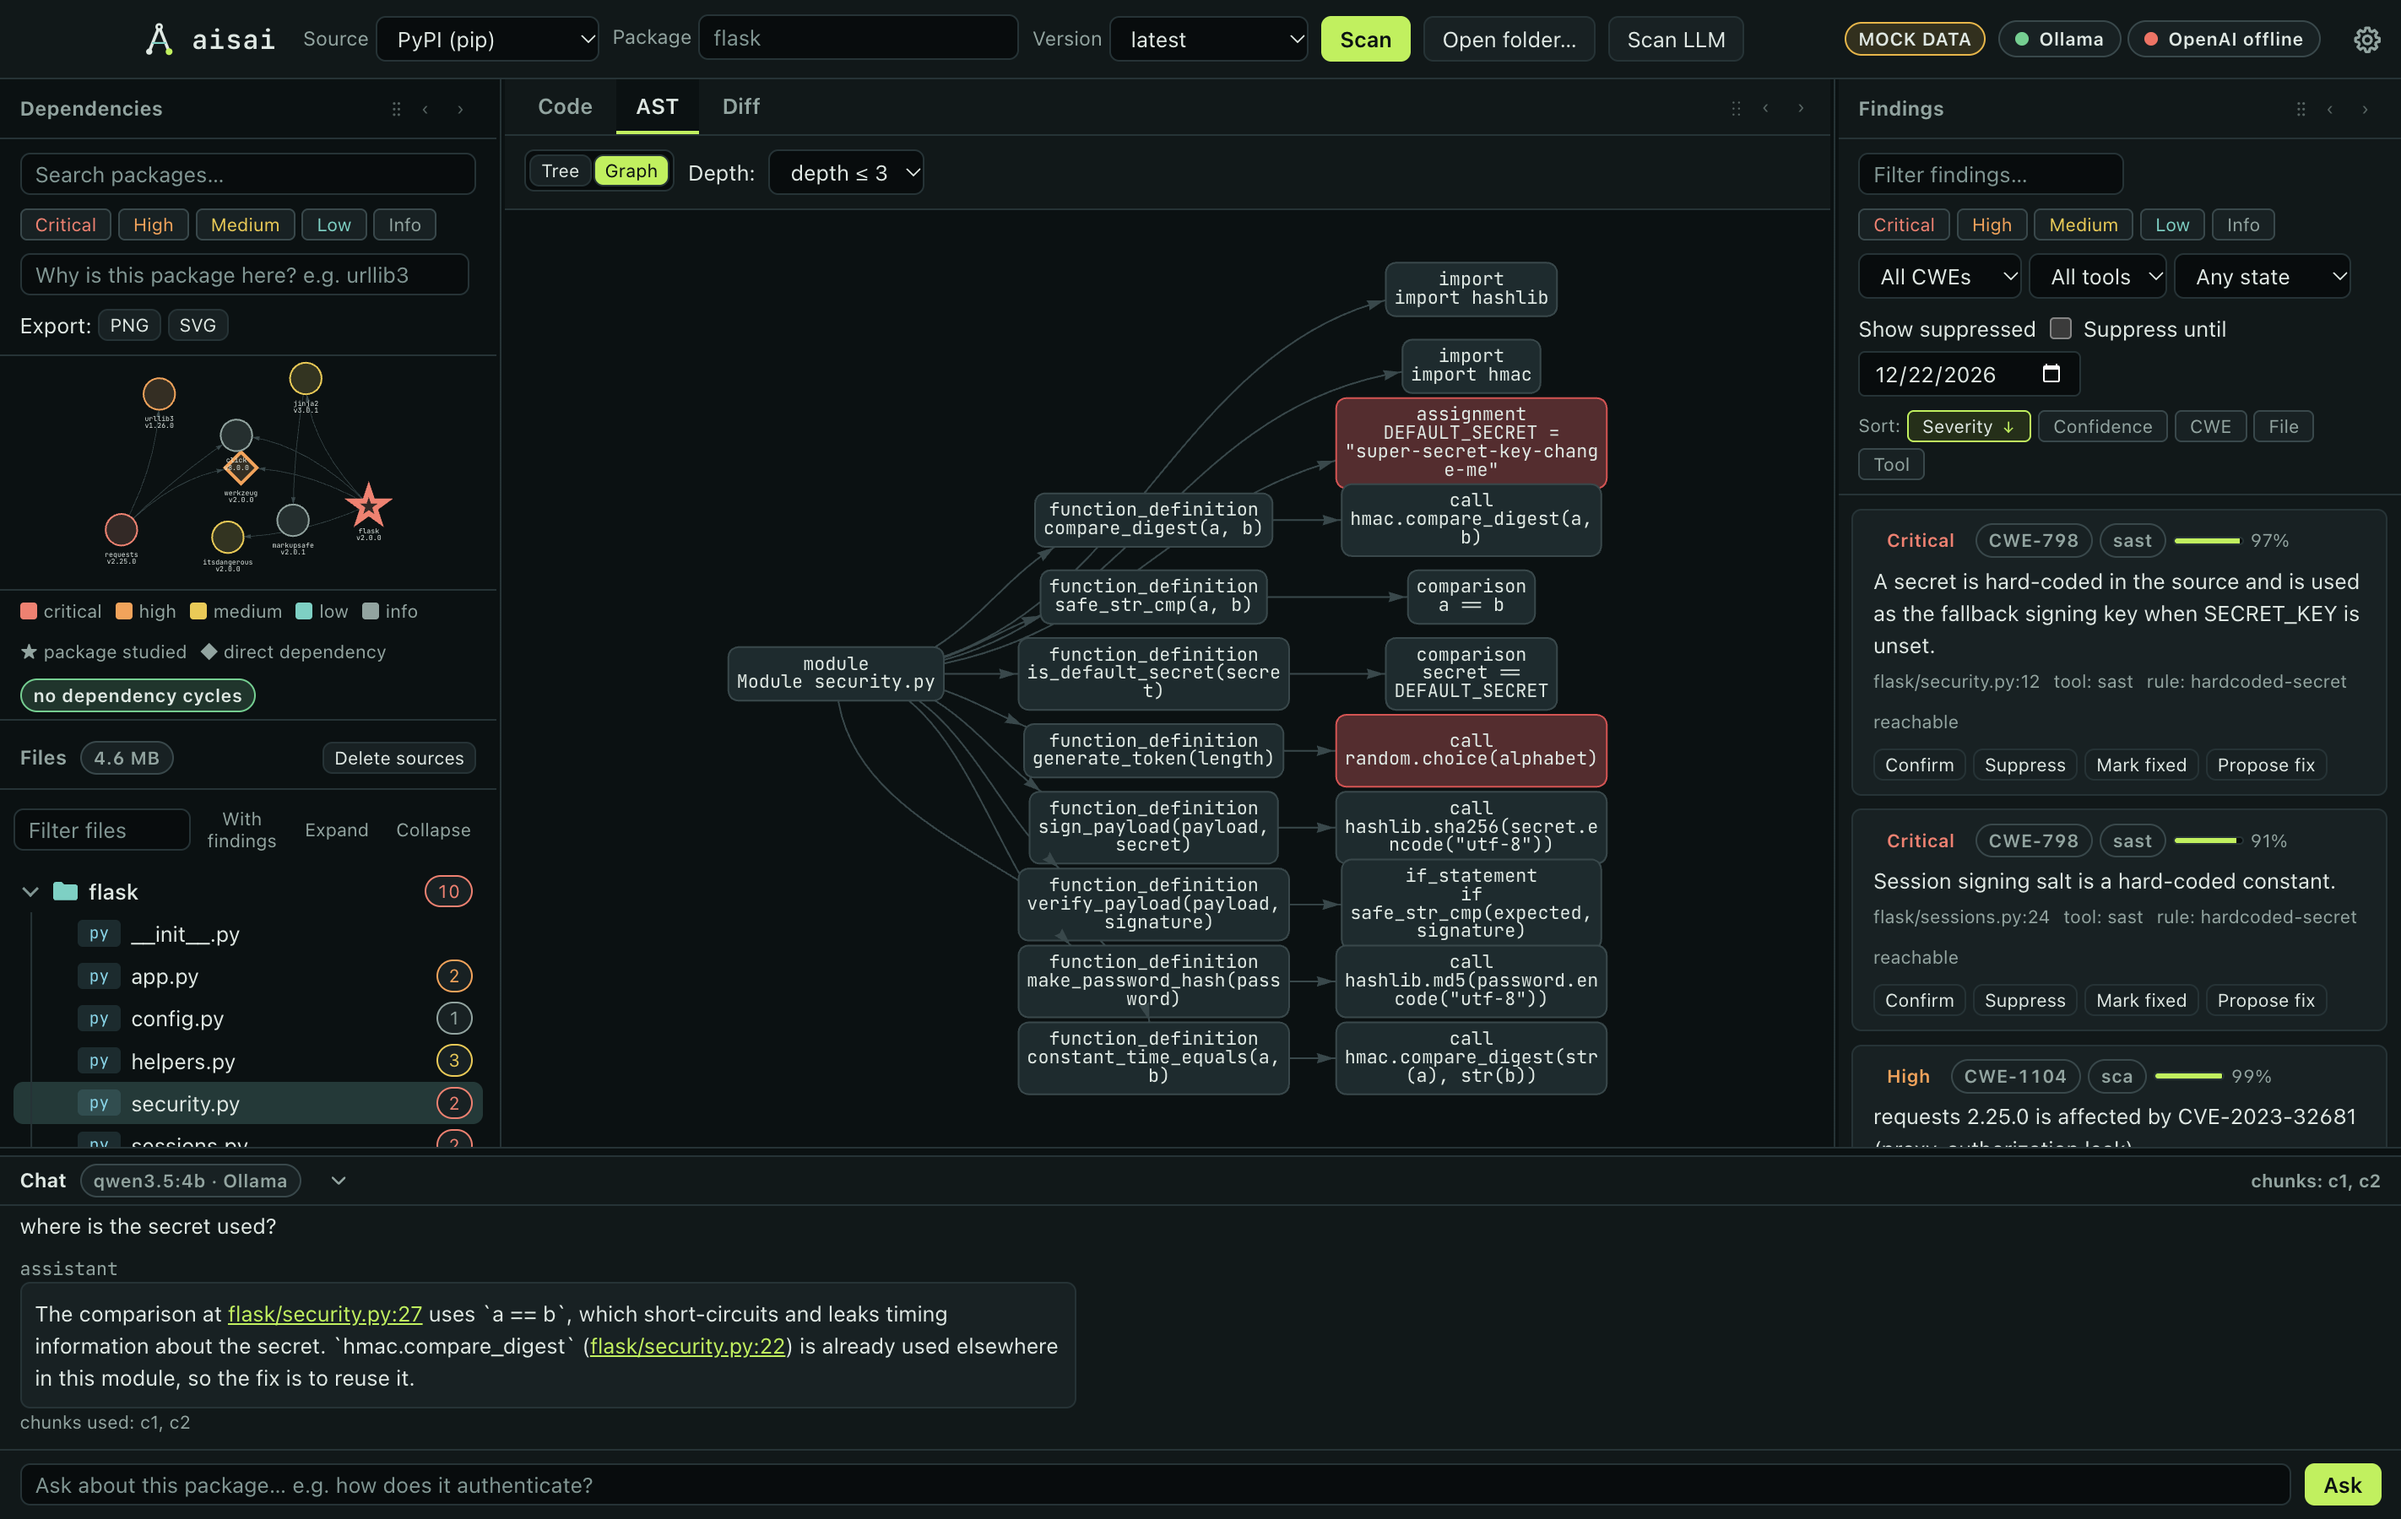
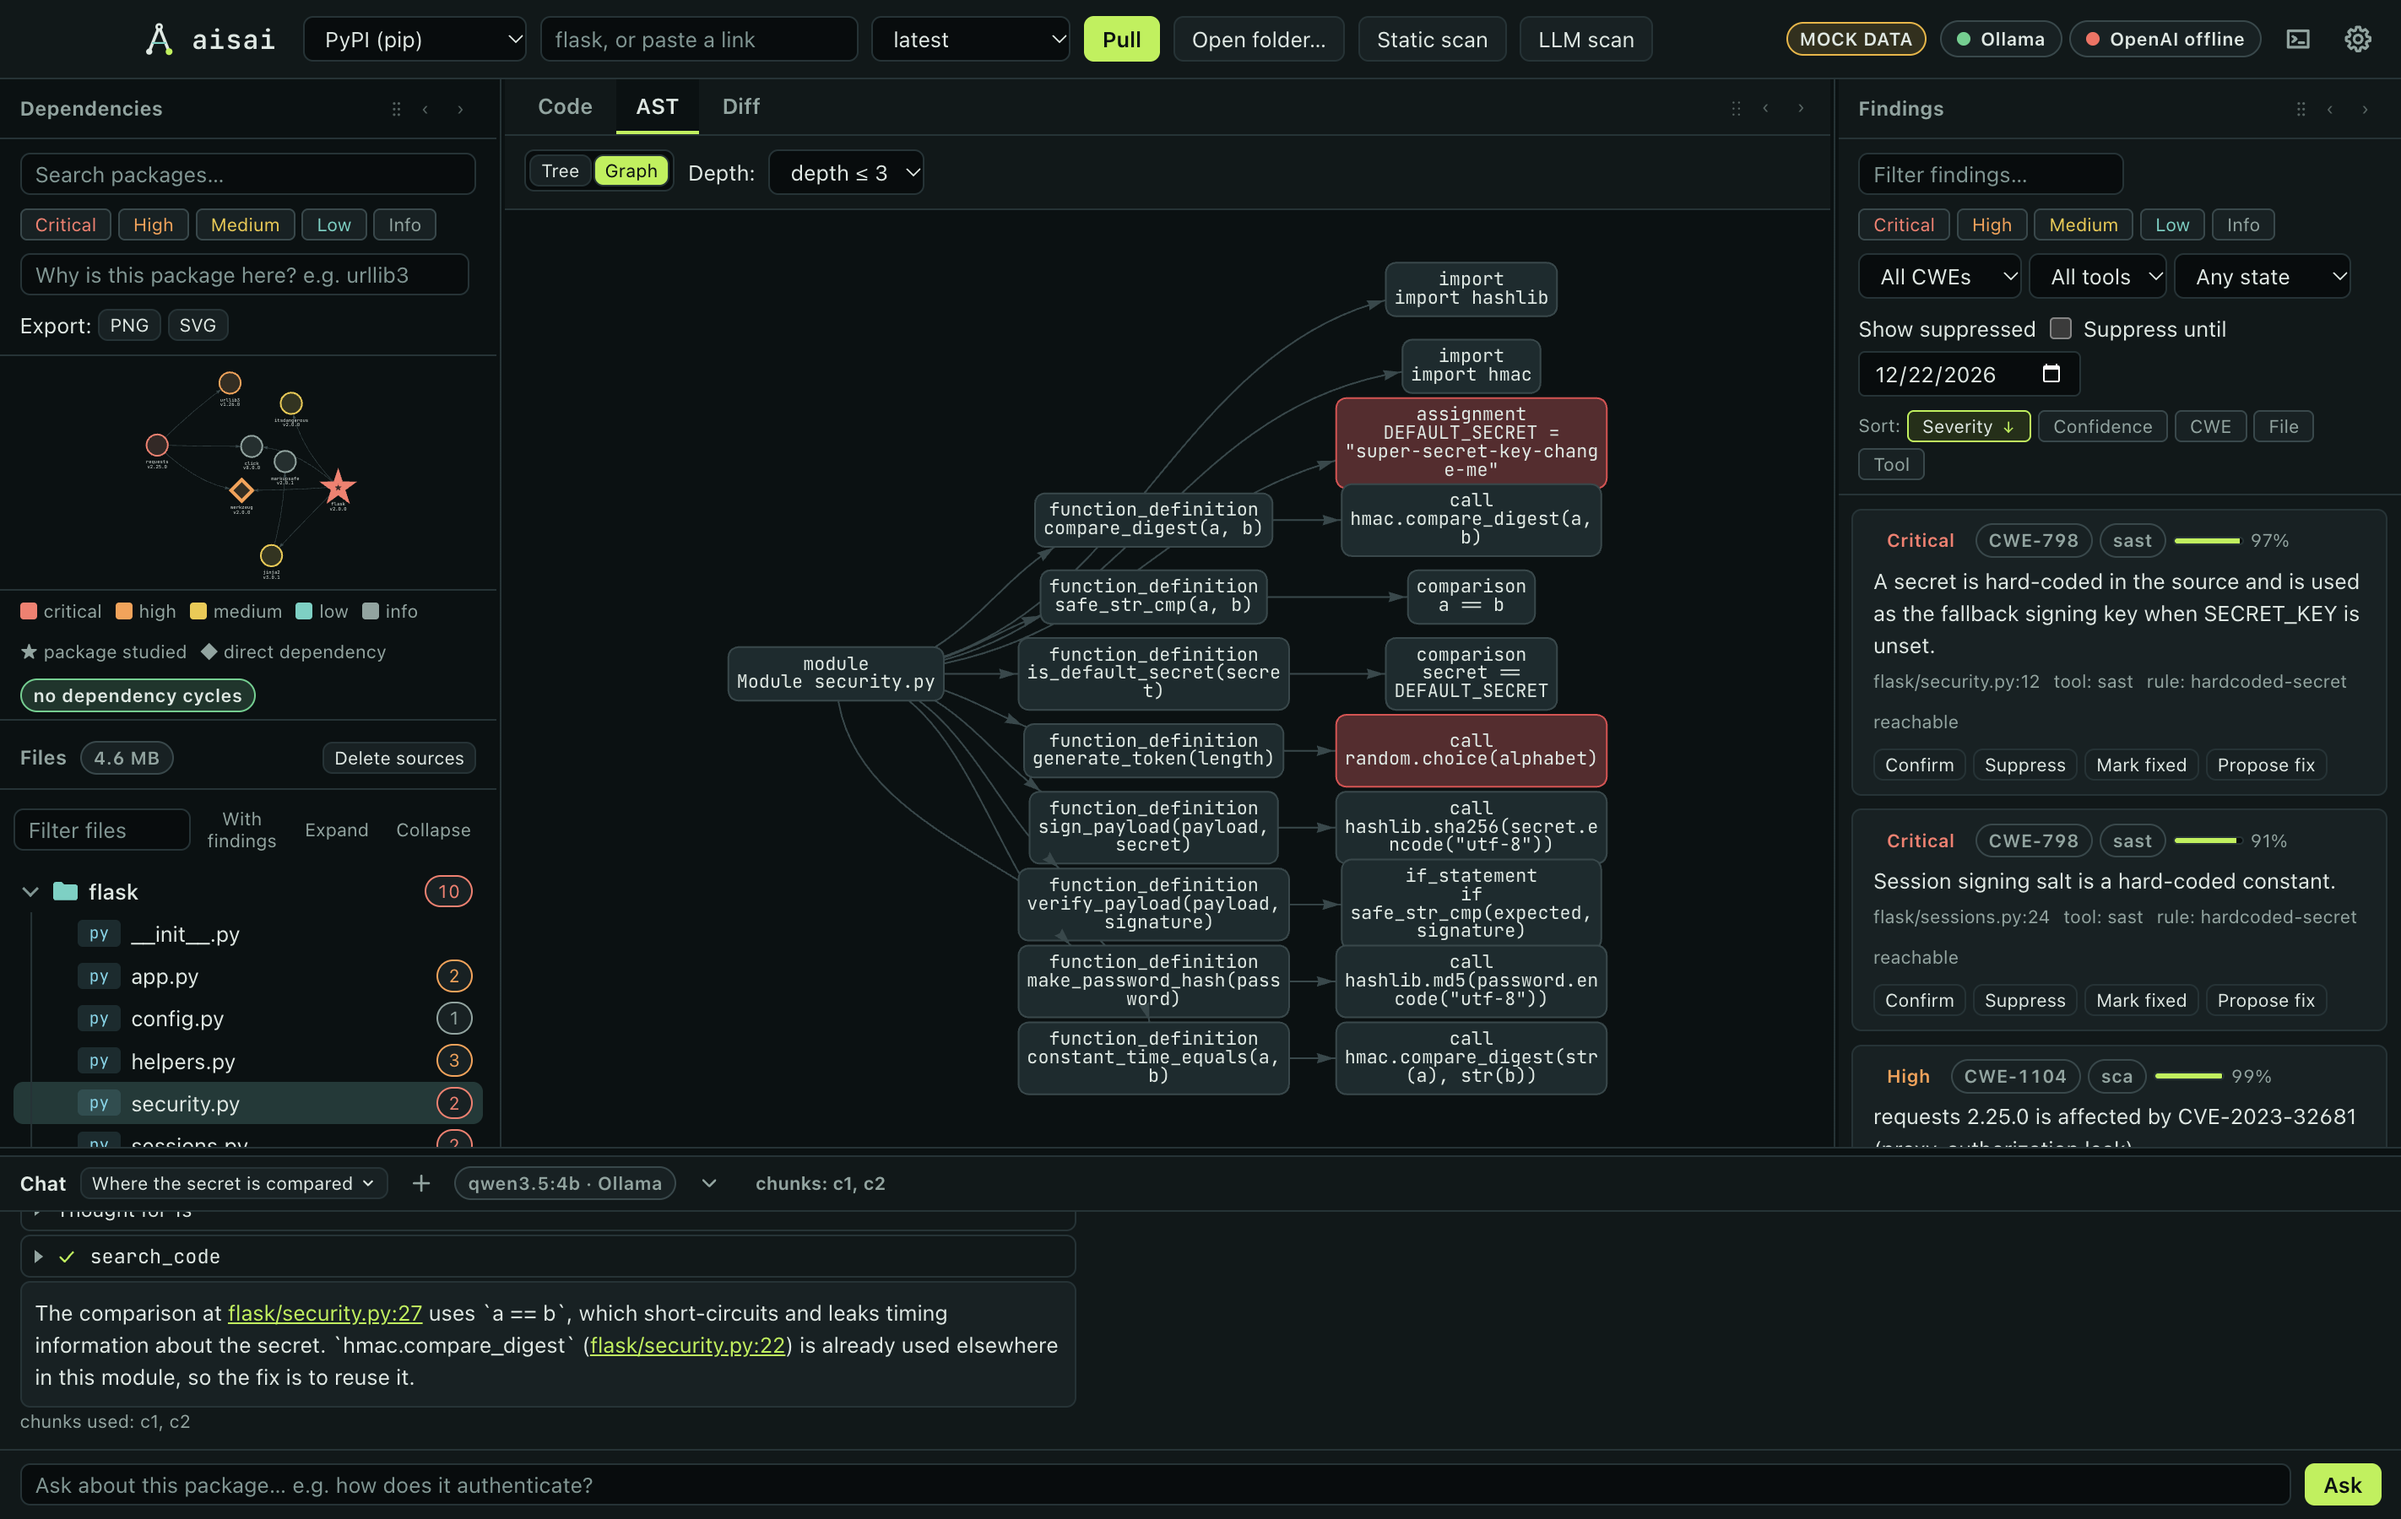
Refresh the README screenshots and keep the chat header on one row
The screenshots now show the current toolbar (Pull, Static scan, LLM scan),
the editor, chat threads, the terminal and the shortcuts sheet. A narrow chat
header shortens the thread name and model instead of wrapping.

diff --git a/electron/src/styles/app.css b/electron/src/styles/app.css
@@ -3297,3 +3297,24 @@ button:focus-visible:hover:not(:disabled) {
   border-radius: 4px;
   background: var(--bg-surface);
 }
+
+/* A narrow chat header keeps one row: the thread name and model chip
+   shorten, and the chunk list (also shown under each answer) goes. */
+.chat-header {
+  flex-wrap: nowrap;
+  min-width: 0;
+}
+.chat-header > * {
+  flex: 0 0 auto;
+}
+.chat-header > .thread-wrap,
+.chat-header > .chat-model {
+  flex: 0 1 auto;
+  min-width: 0;
+}
+.chat-header .thread-button {
+  max-width: 100%;
+}
+.workspace.dock-right .chat-header > .chunks-used {
+  display: none;
+}

diff --git a/README.md b/README.md
@@ -33,7 +33,7 @@ the chat below, which names the model that answers.
 | ![The syntax tree drawn as a graph, with the nodes that carry findings in red](docs/screenshots/ast-graph.png) | ![Settings, Layout: five ready-made arrangements of the panes](docs/screenshots/layout-presets.png) |
 | **AST graph.** The syntax tree of the open file as a node-link diagram; nodes with a finding are red, a click jumps to the line. | **Layout presets.** Move panes by their grip, or pick an arrangement in Settings. |
 | ![The Reader layout: code, findings and the chat docked on the right](docs/screenshots/reader-layout.png) | ![The package picker with npm selected and a suggestion shown](docs/screenshots/package-manager-picker.png) |
-| **Reader layout.** The dependency column is hidden and the chat is docked on the right. | **Package managers.** Choose PyPI, npm or crates.io, then the package and version. |
+| **Reader layout.** The dependency column is hidden and the chat is docked on the right. | **Package managers.** Choose PyPI, npm or crates.io, type a name or paste a link, then Pull. |
 
 ### How an audit runs
 
@@ -377,6 +377,8 @@ settings. Scanning, the graph, the AST and the static rules keep working.
 
 A shortcut never takes a key the editor or the field you are typing in already
 uses.
+
+![The keyboard shortcuts sheet](docs/screenshots/shortcuts.png)
 
 ### The terminal
 
